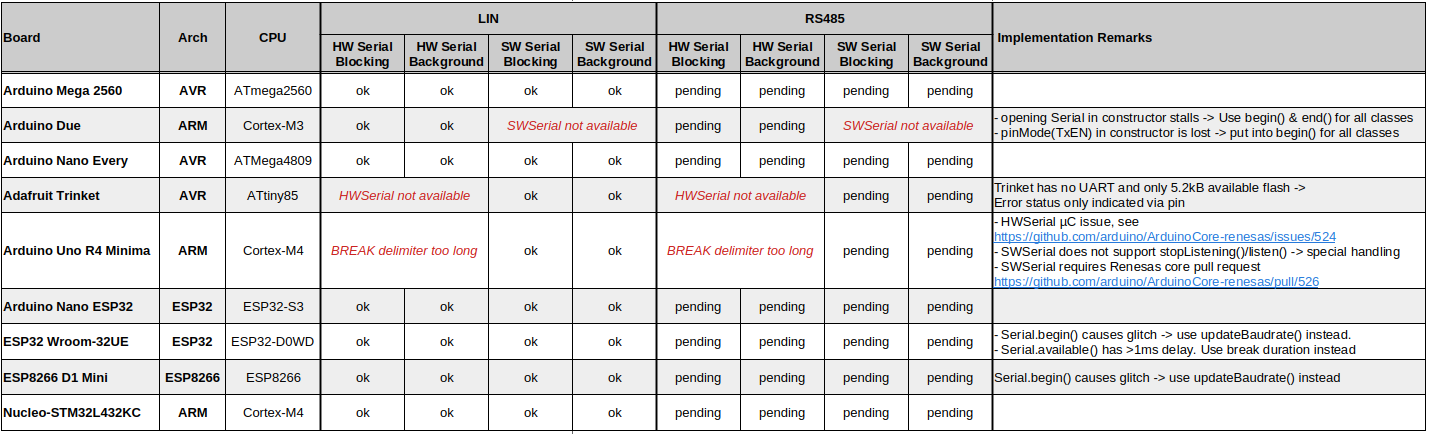
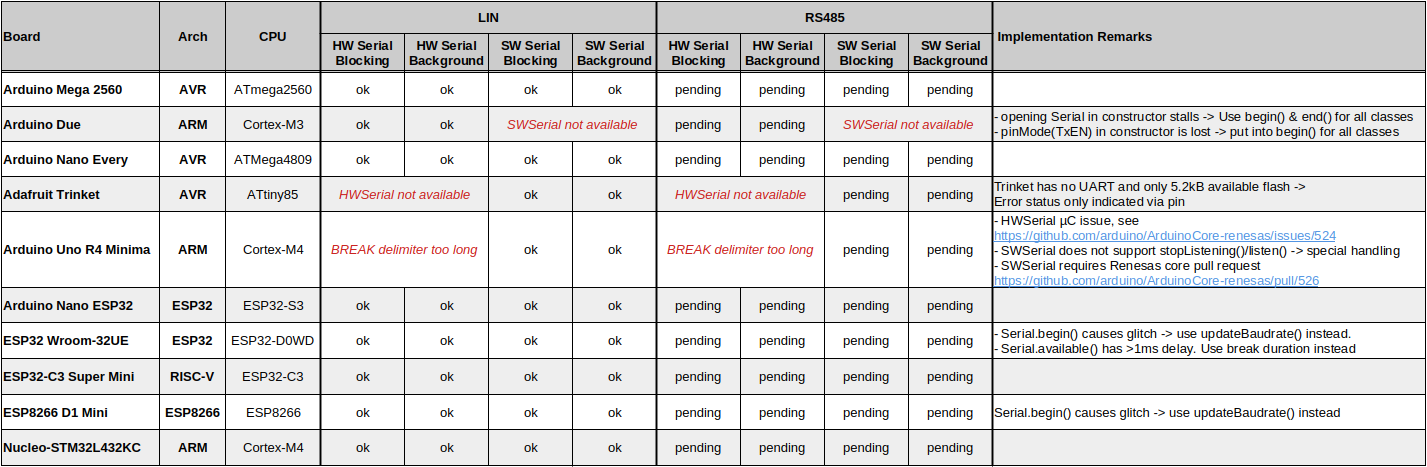
added tests for ESP32-C3 Super Mini (see https://github.com/gicking/LIN_master_portable_Arduino/issues/9)

Changed region(s): [[0.0, 0.0, 1.0, 1.0], [0.0, 0.0599, 0.0308, 0.1198], [0.37, 0.5092, 0.4008, 0.5392]]

diff --git a/README.md b/README.md
@@ -29,7 +29,9 @@ For a similar Arduino libary for LIN slave emulation see https://github.com/gick
   - Arduino AVR Cortex-M boards, e.g. [Due](https://store.arduino.cc/products/arduino-due)
   - Arduino Renesas Cortex-M boards, e.g. [Uno R4 Minima](https://docs.arduino.cc/hardware/uno-r4-minima/) (only SoftwareSerial)
   - ATtiny boards, e.g. [Adafruit Trinket](https://www.adafruit.com/product/1501) (only SoftwareSerial)
-  - ESP32 boards, e.g. [Arduino Nano-ESP32](https://docs.arduino.cc/hardware/nano-esp32/) or [Espressif Wroom-32U](https://www.etechnophiles.com/esp32-dev-board-pinout-specifications-datasheet-and-schematic/)
+  - ESP32 Classic boards, e.g. [Espressif Wroom-32U](https://www.etechnophiles.com/esp32-dev-board-pinout-specifications-datasheet-and-schematic/)
+  - ESP32-S3 boards, e.g. [Arduino Nano-ESP32](https://docs.arduino.cc/hardware/nano-esp32/)
+  - ESP32-C3 boards, e.g. [ESP32-C3 Super Mini](https://www.sudo.is/docs/esphome/boards/esp32c3supermini/)
   - ESP8266 boards, e.g. [Wemos D1 mini](https://www.wemos.cc/en/latest/d1/d1_mini.html)
   - STM32 boards, e.g. [Nucleo-STM32L432KC](https://www.st.com/en/evaluation-tools/nucleo-l432kc.html)
 
@@ -40,7 +42,9 @@ For a similar Arduino libary for LIN slave emulation see https://github.com/gick
 
   - For background operation, the `handler()` method must be called at least every 500us, especially after initiating a frame. Optionally it can be called from within [serialEvent()](https://reference.arduino.cc/reference/de/language/functions/communication/serial/serialevent/)
 
-  - For ESP32 and ESP8266, library `EspSoftwareSerial` must be installed, even if `SoftwareSerial` is not used in project 
+  - For ESP32 and ESP8266, library `EspSoftwareSerial` must be installed, even if `SoftwareSerial` is not used in project
+
+  - SoftwareSerial sending is blocking on all platforms, i.e. "background operation" only applies to receiving slave responses
   
 
 # Test Matrix
@@ -79,7 +83,7 @@ Revision History
   - update reference
   
 **v1.6 (2025-04-27)**
-  - for clarity add "this->" for all internal method calls and class variable access  
+  - for clarity add "this->" for all internal method calls and class variable access
   - full regresstion tests and add some comments
   - update reference
 
@@ -95,13 +99,13 @@ Revision History
 
 **v1.3 (2024-12-14)**
   - add support for LIN protocol via RS485 PHY
-  - add Github Actions for CI tests  
-  - add more examples  
-  - increase test coverage  
+  - add Github Actions for CI tests
+  - add more examples
+  - increase test coverage
 
 **v1.2 (2023-06-02)**
   - Make SoftwareSerial optional for ESP32 to avoid library issue
-  - add examples & increase test coverage for more boards  
+  - add examples & increase test coverage for more boards
 
 **v1.1 (2022-12-10)**
   - minor cosmetic changes and bugfixes
